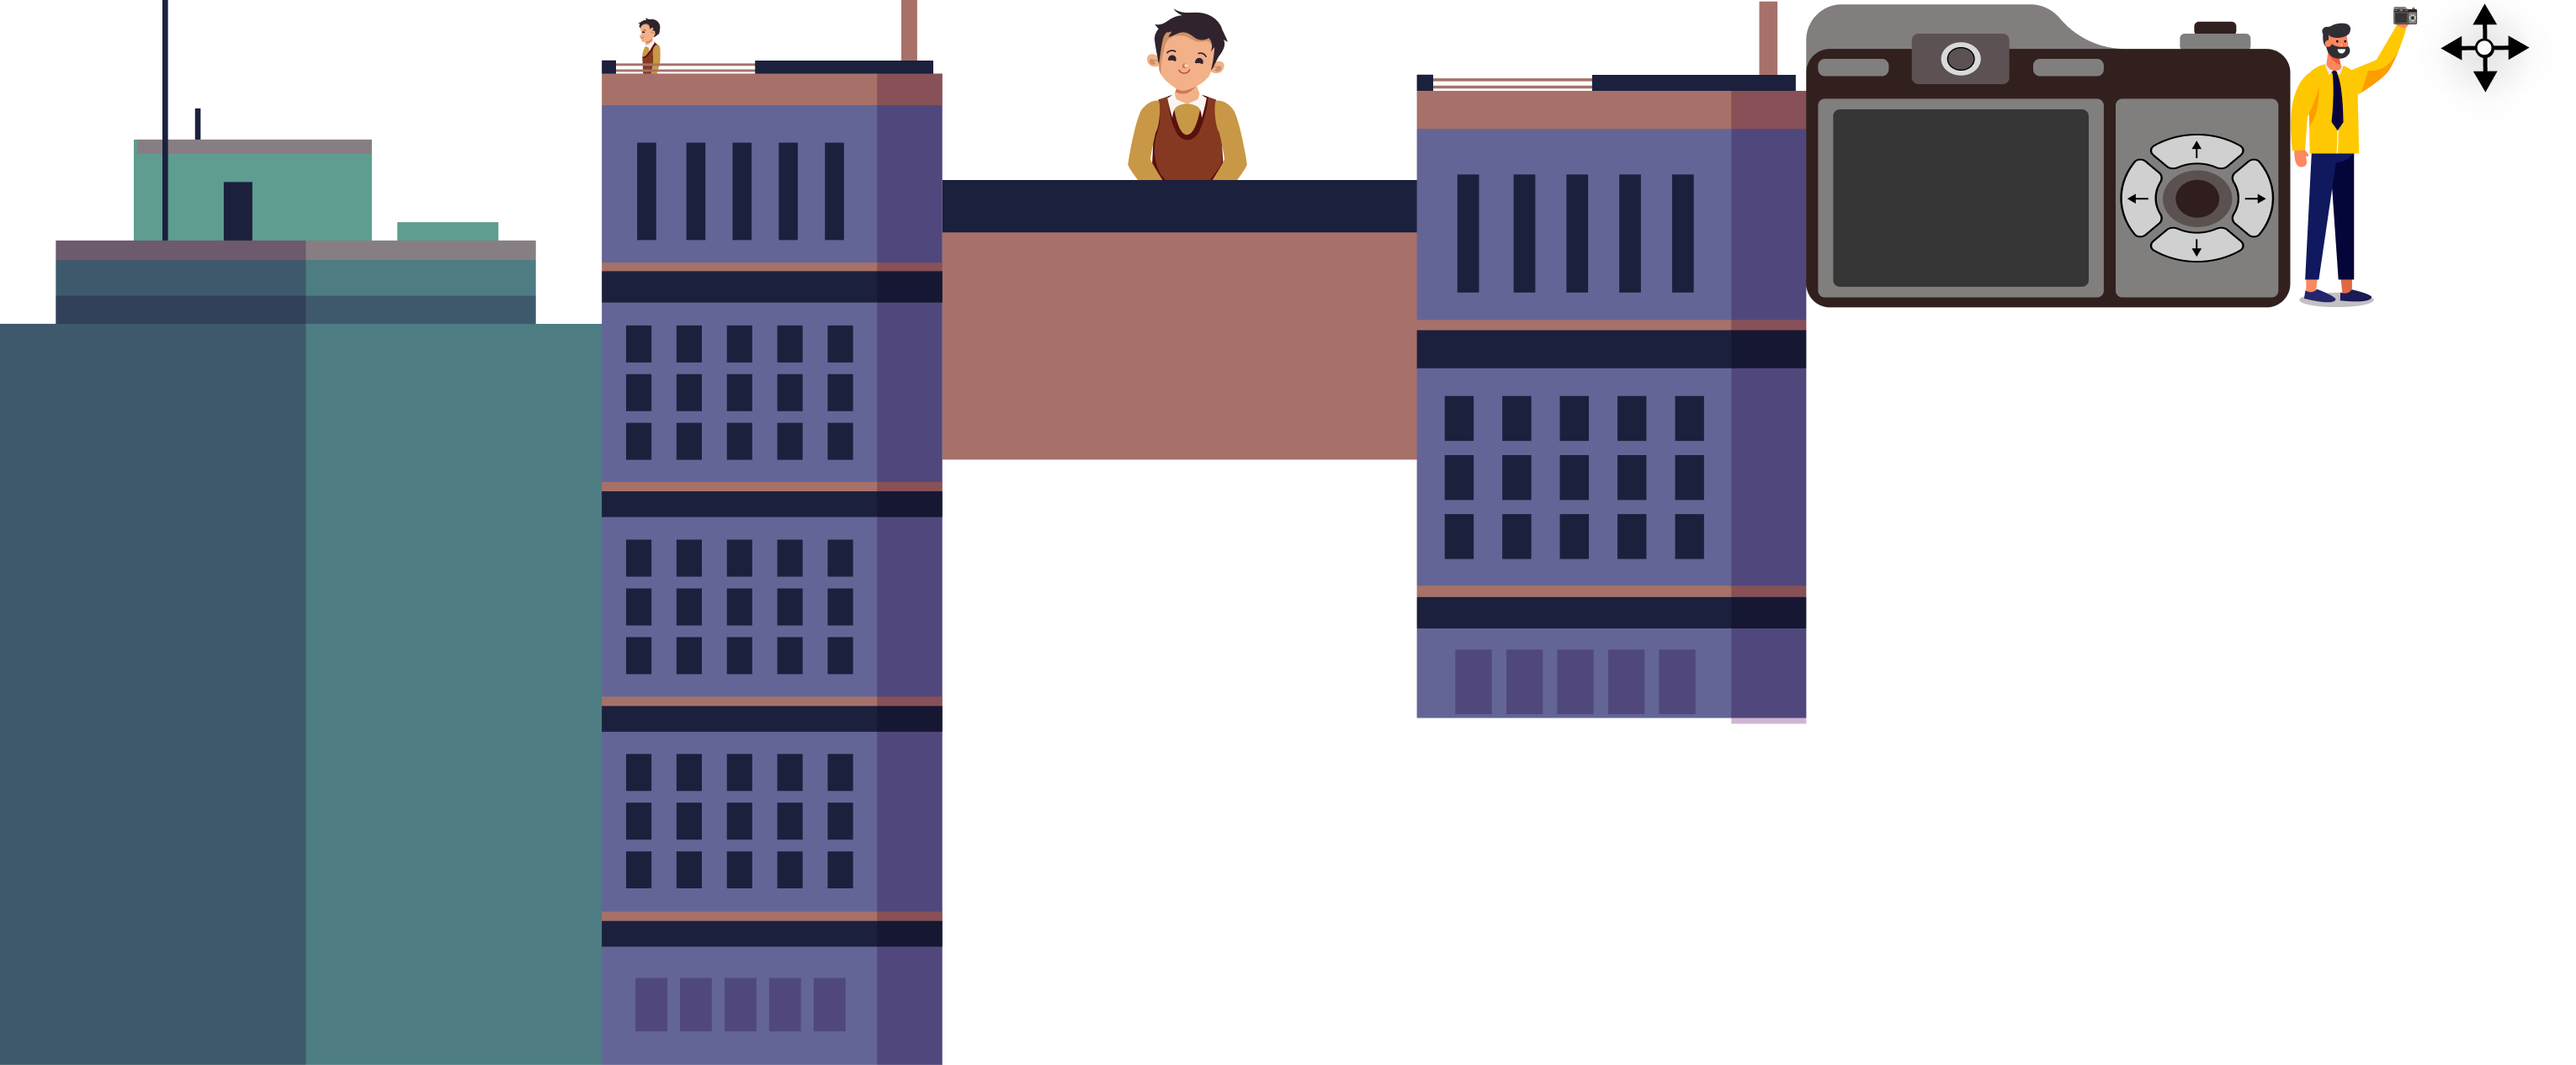
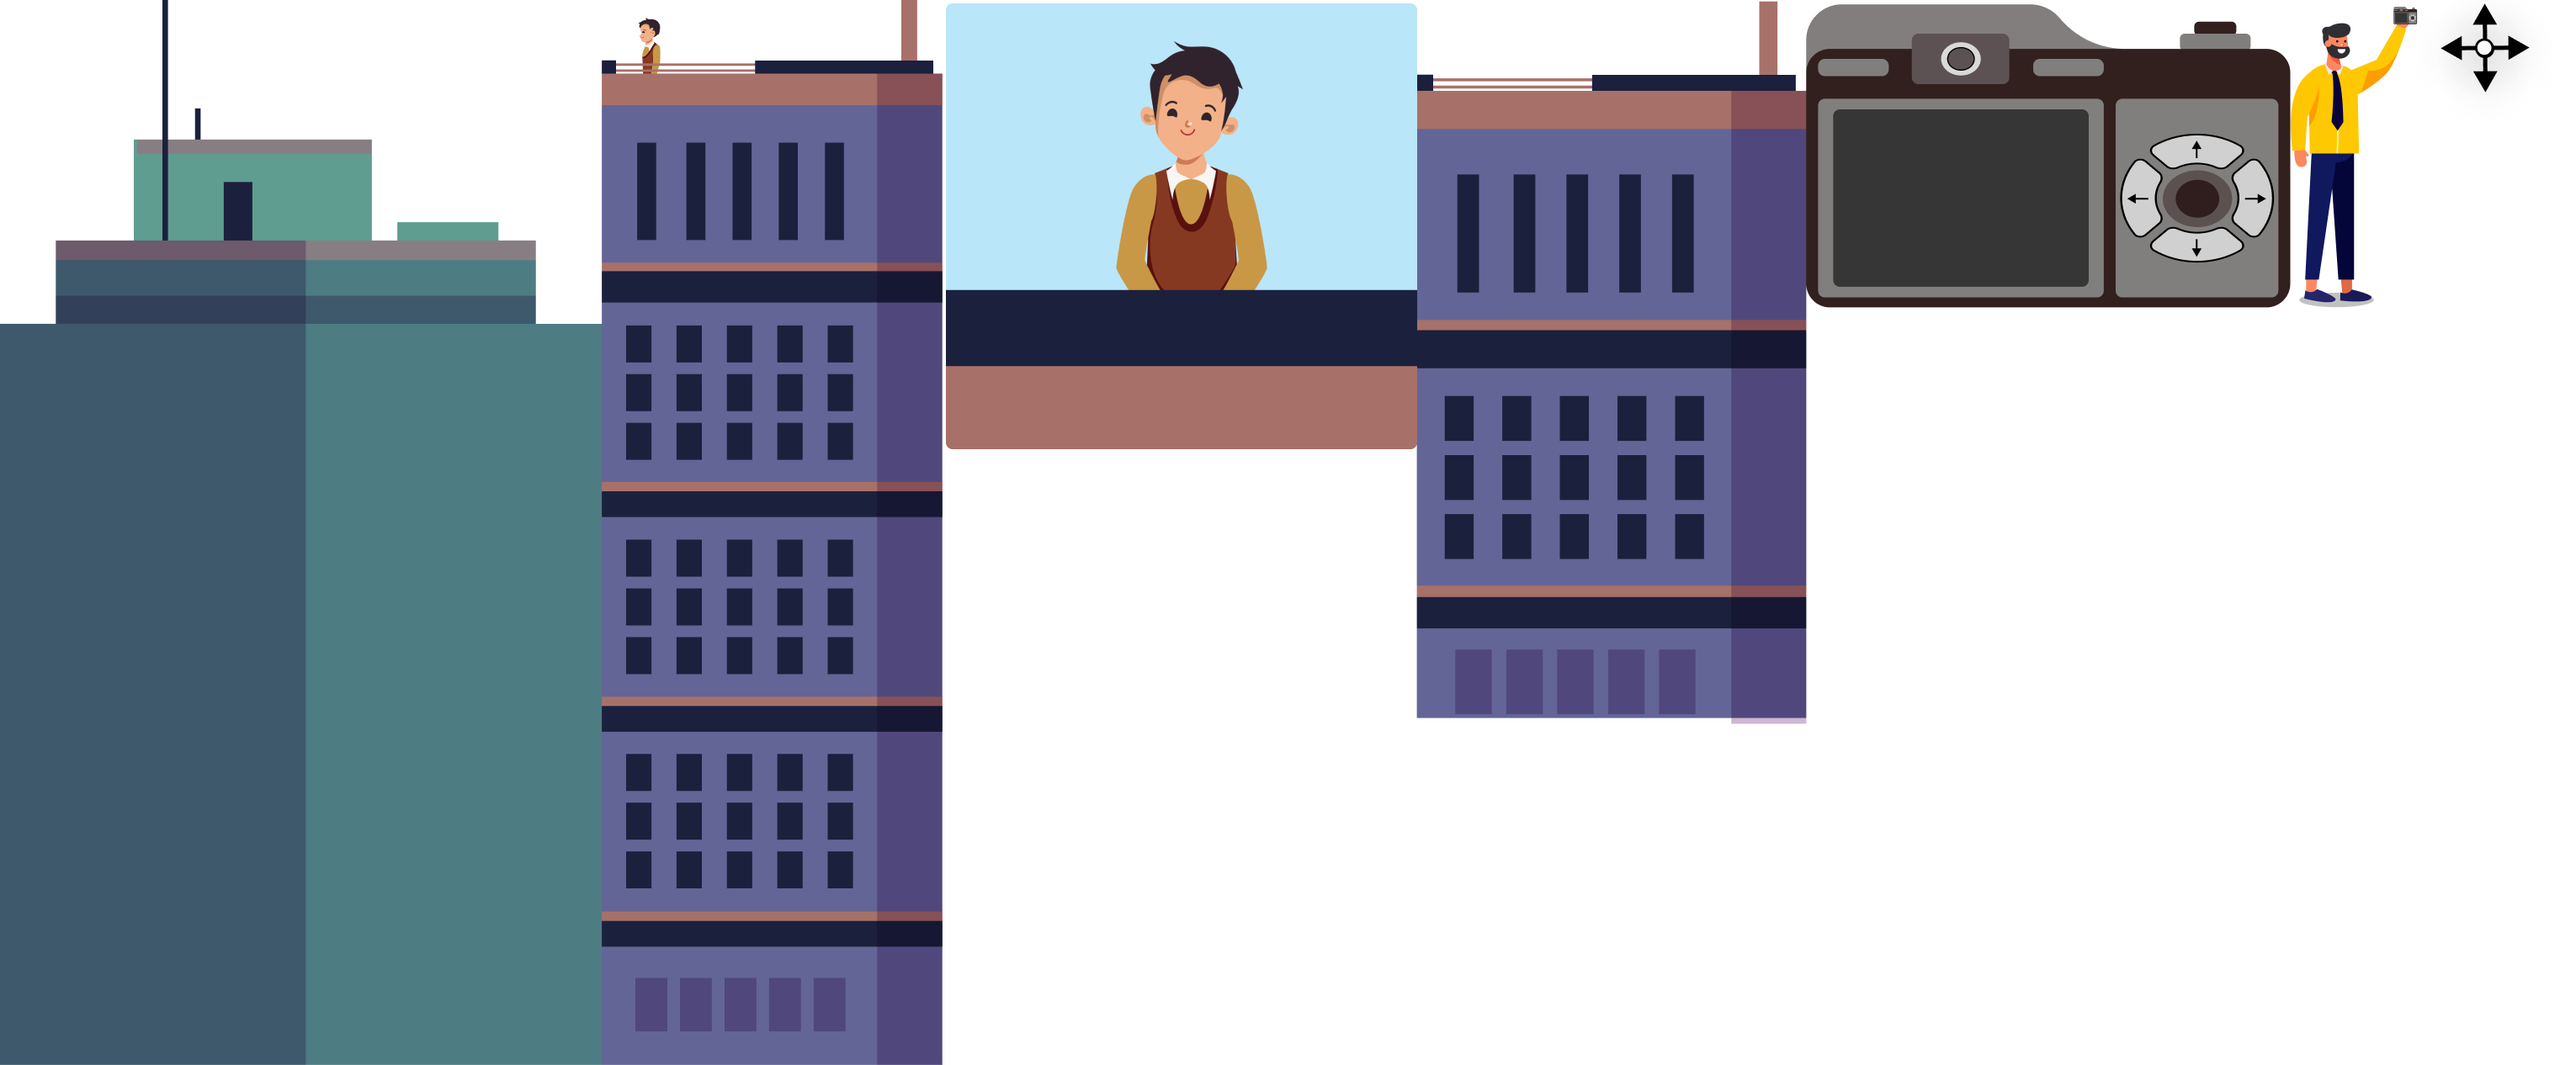
works but buggly

Changed region(s): [[0.3414, 0.0, 0.5586, 0.3697], [0.3724, 0.4005, 0.5586, 0.4313]]

diff --git a/src/tirgno/movement.tsx b/src/tirgno/movement.tsx
@@ -1,9 +1,10 @@
 import Building from "./building";
 import canvas_module from "./canvas_module";
+import CameraAngleIndicator from "./pointer";
 
 export default class Movement {
         clickedObject: Building | null = null;
-        pointer = { x: 0, y: 0, width: 0, height: 0, x1: 0, y1: 0, clicked: false, angle: 0 }; 
+        pointer:CameraAngleIndicator | null =  null; 
         cameramanhand = { x: 0, y: 0, width: 0, height: 0 };
         cameraBuilding: Building;
         constructor(cameraBuilding: Building) {
@@ -45,101 +46,54 @@ export default class Movement {
 
         }
 
-        moveClickedPointer(x2:number,y2:number,canvas_module:canvas_module,building:Building) {
+        moveClickedPointer(x2:number,y2:number,canvas_module:canvas_module) {
                 if (!this.pointer || (this.pointer && !this.pointer.clicked)) return;
-                console.log(this.pointer,'1');
+                const { x} = this.cameramanhand;
+                const b = this.pointer.building;
+                const base = Math.abs(b.x - x);
+                let p= Math.tan(this.pointer.angle) * base;
+                
+                if(y2>this.pointer.y1)p-=1
+                else p += 1
                 this.pointer.y1 = y2;
-                console.log(this.pointer,'1');
-                const { x1, x, y, y1 } = this.pointer;
-                const b = Math.abs(x1 - x), p = Math.abs(y1 - y);
-                const angle = Math.atan(b / p);
-                this.pointer.angle = angle;
-                this.DrawPointer(canvas_module, angle, building);                
+                console.log(p);
+                const angle = Math.atan(p / base);
+                this.pointer.setAngle(angle);
+                this.pointer.DrawPointer(canvas_module, angle);                
         }
 
         onClick(
-                x: number,
-                y: number,
+                x1: number,
+                y1: number,
                 canvas_module: canvas_module,
                 BuildingList: Building[]
         ) {
-                const a = this.cameramanhand;
+                const {x,y,width} = this.cameramanhand;
                 if (
-                        x < a.x + a.width &&
-                        x >= a.x + a.width - 15 &&
-                        y >= a.y &&
-                        y < a.y + 15 &&
+                        x1 < x + width &&
+                        x1 >= x + width - 15 &&
+                        y1 >= y &&
+                        y1 < y + 15 &&
                         BuildingList.length
                 ) {
                 const b=  BuildingList[0]
 
-                const p= Math.abs(Math.floor(b.y - a.y));
-                const base = Math.abs(Math.floor(b.x - a.x));
-                        const angle = Math.atan(p / base);
-                        this.setPointer(angle);
-                        this.DrawPointer(canvas_module, angle, b);
-                        const cross = document.getElementById("cross");
-                        const clickme = document.getElementById("clickme");
-                        if (cross && clickme) {
-                                cross.style.display = "block";
-                                clickme.style.display = "block";
-                        }
+                const p= Math.abs(b.y - y);
+                const base = Math.abs(b.x - x);
+                const angle = Math.atan(p / base);
+                this.setPointer(angle,b);
+                this.pointer?.DrawPointer(canvas_module, angle);                
+                        
                 }
         }
         
-        DrawCamera(canvas_module: canvas_module) {
-                const x= (canvas_module.canvas.width/2)-200
-                canvas_module.DrawObjectImage('camera', x, 100, 300, 200);
-        }
-
-        DrawPointer(canvas_module: canvas_module, angle: number, b: Building) {
-                const { x, y, x1, y1 } = this.pointer; 
-                if (!angle) angle = this.pointer.angle;
-                const height = this.cameramanhand.height/3;
-                canvas_module.DrawLine(x, y + height, x1, y1);//triangle hypotense line
-                
-                canvas_module.DrawLine(x, y + height,x1, y+height);//triangle base line
-                canvas_module.DrawObjectImage('pointer', x1 -25, y1-23, 50, 50);
-                
-                canvas_module.DrawText(
-                        x + 35,
-                        y + height - 6,
-                        Math.floor(angle * (180 / Math.PI)).toString()
-                );
-                canvas_module.DrawArc(
-                        x,
-                        y + height,
-                        35,
-                        2 * Math.PI - angle,
-                        2 * Math.PI
-                );
-                
-                this.DrawDistanceLine(canvas_module, b);
-                this.DrawCamera(canvas_module);
-                
-        }
         
-        setPointer(angle:number) {
+        setPointer(angle:number,building:Building) {
                 const {x,y} = this.cameramanhand;
                 const perpendecular = Math.tan(angle) * 110;
-                this.pointer = { x: x  , y: y , width: 50, height: 50 ,y1:y - perpendecular+36,x1:x+100,clicked:false,angle};
+                this.pointer = new CameraAngleIndicator(this.cameramanhand,angle,50,50, x + 100, y - perpendecular + 36,building);
         }
         
-        DrawDistanceLine(canvas_module: canvas_module, b: Building) {
-                const a2 = this.cameramanhand;
-                const perpendecular = Math.abs(Math.floor(b.y - a2.y));
-                const base = Math.abs(Math.floor(b.x - a2.x));
-                let x = b.x - 20, y = a2.y + 50, x1 = b.x - 20, y1 = b.y + 50;
-                
-                canvas_module.DrawLine(x,y,x1,y1, "#5708FF", 4, [10, 10]);//perpendecular
-                canvas_module.DrawText(x - 70, perpendecular / 2 + y1, perpendecular.toString() +" cm", "#5708FF")
-                
-                x = a2.x + 30; y = a2.y + a2.height + 40; x1 = b.x - 10; y1 = a2.y  + a2.height + 40;
-                canvas_module.DrawLine(x, y, x1, y1,"#FAFF08",4,[10,10]);//base
-                canvas_module.DrawText(x+base/2-20,y1+20,base.toString() + " cm","#FAFF08")
-
-        }
-
         collisionCheck(x: number, y: number, building: Building) {
                 return (
                         x >= building.x &&

diff --git a/src/tirgno/pointer.tsx b/src/tirgno/pointer.tsx
@@ -1,11 +1,101 @@
-export default class Pointer{
-        x: number; y: number;
-        angle: number;
-        constructor(x:number,y:number,angle:number) {
-                this.x = x;
-                this.y = y;
+import Building from "./building";
+import canvas_module from "./canvas_module";
+export default class CameraAngleIndicator{
+        width: number; height: number; x1: number; y1: number; clicked = false; angle = 0; 
+        cameramanhand = { x: 0, y: 0, width: 0, height: 0 };
+        building: Building;
+        camera = { x: 0, y: 100, width: 300, height: 200 };
+        constructor(cameramanhand: { x: number; y: number; width: number; height: number },angle:number,width:number,height:number,x1:number,y1:number,building:Building) { 
+        
+                this.width = width;
+                this.height = height;
+                this.x1 = x1;
+                this.y1 = y1;
+                this.angle = angle;
+                this.building = building;
+                this.cameramanhand = cameramanhand;
+        }
+        
+        setAngle(angle: number) {
                 this.angle = angle;
         }
+        
+        Capture(canvas_module: canvas_module) {
+                const { x1, y1 } = this;
+                const { x, y, } = this.cameramanhand;
+                const x2 = this.building.x;
+                const m=(y1-y)/(x1-x);
+              const  y2=m*(x2-x1)+y1-5;
+                
+                if (this.building.y <= y2+50 && this.building.y + 80>y2) canvas_module.DrawObjectImage('captureperson', this.camera.x + 14, this.camera.y + 70, 161, 118);
+                else if(this.building.y > y2+50)canvas_module.DrawObjectImage('sky', this.camera.x + 14, this.camera.y + 70, 161, 118,x,y);
+                else  canvas_module.DrawObjectImage('capturebuilding', this.camera.x + 14, this.camera.y + 70, 161, 118);
+        }
+        
+        
+        
+        
+        
+         DrawCamera(canvas_module: canvas_module) {
+                 const x = (canvas_module.canvas.width / 2) - 200
+                 this.camera.x = x;
+                canvas_module.DrawObjectImage('camera', x, 100, 300, 200);
+        }
+
+        DrawPointer(canvas_module: canvas_module, angle: number) {
+                const { x1, y1 } = this; 
+                const {x,y,height} = this.cameramanhand;
+                if (!angle) angle = this.angle;
+                const h = height/3;
+                canvas_module.DrawLine(x, y + h, x1, y1);//triangle hypotense line
+                
+                canvas_module.DrawLine(x, y + h,x1, y+h);//triangle base line
+                canvas_module.DrawObjectImage('pointer', x1 -25, y1-23, 50, 50);
+                
+                canvas_module.DrawText(
+                        x + 35,
+                        y + h - 6,
+                        Math.floor(angle * (180 / Math.PI)).toString()
+                );
+                canvas_module.DrawArc(
+                        x,
+                        y + h,
+                        35,
+                         -angle ,
+                        0
+                );
+                
+                this.DrawDistanceLine(canvas_module);
+                this.DrawCamera(canvas_module);
+                this.DisplayBtns();
+                
+        }
+       
+        DisplayBtns() {
+        const cross = document.getElementById("cross");
+                        const clickme = document.getElementById("clickme");
+                        if (cross && clickme) {
+                                cross.style.display = "block";
+                                clickme.style.display = "block";
+                        }
+        }
+        
+        DrawDistanceLine(canvas_module: canvas_module) {
+                const b = this.building;
+                const a2 = this.cameramanhand;
+                const perpendecular = Math.abs(Math.floor(b.y - a2.y));
+                const base = Math.abs(Math.floor(b.x - a2.x));
+                let x = b.x - 20, y = a2.y + 50, x1 = b.x - 20, y1 = b.y + 50;
+                
+                canvas_module.DrawLine(x,y,x1,y1, "#5708FF", 4, [10, 10]);//perpendecular
+                canvas_module.DrawText(x - 70, perpendecular / 2 + y1, perpendecular.toString() +" cm", "#5708FF")
+                
+                x = a2.x + 30; y = a2.y + a2.height + 40; x1 = b.x - 10; y1 = a2.y  + a2.height + 40;
+                canvas_module.DrawLine(x, y, x1, y1,"#FAFF08",4,[10,10]);//base
+                canvas_module.DrawText(x+base/2-20,y1+20,base.toString() + " cm","#FAFF08")
+
+        }
+
         
         
 }

diff --git a/src/tirgno/index.tsx b/src/tirgno/index.tsx
@@ -13,14 +13,16 @@ export default class TrignoHeightAndDistance{
         constructor(canvas: HTMLCanvasElement, context: CanvasRenderingContext2D) {
                 this.canvas_module = new canvas_module(canvas, context);
                 this.canvas = canvas;
-                 this.canvas_module.DrawImg(background, 0, 0, this.canvas.width, this.canvas.height);
+                this.canvas_module.DrawImg(background, 0, 0, this.canvas.width, this.canvas.height);
                 this.cameraBuilding = new Building(this.canvas.width / 2 - 200, this.canvas.height-400,"greenbuilding" , this.canvas_module)
         this.Movement = new Movement(this.cameraBuilding);
                 
         }
         
         createBuilding() {
-             this.BuildingList.push(new Building(this.canvas.width - 400, 300, 'purplebuilding1', this.canvas_module,300))
+             if(this.BuildingList.length > 2)return
+                else if(this.BuildingList.length === 0)this.BuildingList.push(new Building(this.canvas.width - 400, 300, 'purplebuilding1', this.canvas_module, 300))
+                else if(this.BuildingList.length === 1)this.BuildingList.push(new Building( 400, 300, 'purplebuilding1', this.canvas_module, 300))
         }
         
         redraw() {
@@ -45,11 +47,11 @@ export default class TrignoHeightAndDistance{
                                 
                 }          
                 this.redraw();
-                this.Movement.pointer = { x: 0, y:0, width:0, height: 0,x1:0,y1:0 ,clicked:false,angle:0} ;
+                this.Movement.pointer = null;
         }
         
         clickMe() {
-        
+        this.Movement.pointer?.Capture(this.canvas_module)
         }
         
         
@@ -61,9 +63,9 @@ export default class TrignoHeightAndDistance{
                 if (str === 'arrow') {
                         this.Movement.moveClickedBuilding(x, y);
                         this.redraw();
-                } else if (str === 'pointer'&&this.Movement.pointer.clicked) {
+                } else if (str === 'pointer'&&this.Movement.pointer&&this.Movement.pointer.clicked) {
                         this.redraw();
-                        this.Movement.moveClickedPointer(x, y, this.canvas_module, this.BuildingList[0]);
+                        this.Movement.moveClickedPointer(x, y, this.canvas_module);
                 }
         }
         
@@ -80,11 +82,12 @@ export default class TrignoHeightAndDistance{
         }
         
         MouseUp() {
-                if(this.Movement.pointer.clicked)this.Movement.DrawPointer(this.canvas_module, 0, this.BuildingList[0]);
-                console.log(this.Movement.pointer.angle);
-                
-                this.Movement.clickedObject = null;
+                if (this.Movement.pointer && this.Movement.pointer.clicked) {
+                        this.Movement.pointer.DrawPointer(this.canvas_module, 0);
+                        console.log(this.Movement.pointer?.angle);
                 this.Movement.pointer.clicked = false; 
+                }
+                this.Movement.clickedObject = null;
                 
         }
         

diff --git a/src/tirgno/canvas_module.tsx b/src/tirgno/canvas_module.tsx
@@ -1,4 +1,5 @@
 import Objects from "../assests/allobjects.png"
+import background from "../assests/background.png"
 
 
 export default class canvas_module{
@@ -20,10 +21,10 @@ export default class canvas_module{
         
        DrawImg(imgsrc: string, x: number, y: number, width: number, height: number) {
                 const img = new Image();
-                img.src = imgsrc;
+               img.src = imgsrc;
+               this.context.drawImage(img, x, y, width, height);
                img.onload = () => {
                        this.context.drawImage(img, x, y, width, height);
-                       console.log(img);
                 }
                 
                 img.onerror = (e)=>console.log("error: ",e);
@@ -33,14 +34,14 @@ export default class canvas_module{
         DrawClipImg(imgsrc: string,  sx:number, sy:number, sWidth:number, sHeight:number,x: number, y: number, width: number, height: number) {
         const img = new Image();
                 img.src = imgsrc;
+               this.context.drawImage(img,sx,sy,sWidth,sHeight, x, y, width, height);
                img.onload = () => {
                        this.context.drawImage(img,sx,sy,sWidth,sHeight, x, y, width, height);
-                       console.log(img);
                 }
                 img.onerror = (e)=>console.log("error: ",e);       
         }
         
-        DrawObjectImage(img:string,x: number, y: number, width: number, height: number) {
+        DrawObjectImage(img:string,x: number, y: number, width: number, height: number,sx =0,sy =0) {
         switch (img) {
                 case 'greenbuilding':
                         this.DrawClipImg(Objects, 0, 0, 710, 1000, x, y, width, height);
@@ -58,11 +59,16 @@ export default class canvas_module{
                         this.DrawClipImg(Objects, 2798, 0, 78, 300, x, y, width, height);
                         break;
                 case "captureperson":
+                        this.DrawClipImg(Objects, 1120, 0, 550, 550, x, y, width, height);
                         break;
                 case "capturebuilding":
+                        this.DrawClipImg(Objects, 715, 300, 400, 600, x, y, width, height);
                         break;
                 case 'camera':
                         this.DrawClipImg(Objects, 2150, 0, 570, 370, x, y, width, height);
+                        break;
+                case 'sky':
+                        this.DrawClipImg(background, sx, sy, 710, 1000, x, y, width, height);
                         break;
                 default:
                         break;
@@ -96,8 +102,8 @@ export default class canvas_module{
         }
         
 
-       sleep() {
-    return new Promise(resolve => setTimeout(resolve, 100));
+       sleep(ms:number=100) {
+    return new Promise(resolve => setTimeout(resolve, ms));
 }
         
 }

diff --git a/src/canvas.tsx b/src/canvas.tsx
@@ -44,7 +44,7 @@ export default function Canvas(){
                         setClickMe(false);
                 }
                 
-        }, [buildingBtn, clickme, cross, game, reset, setClickMe, setCross, setReset, setbuildingBtn])
+        }, [buildingBtn, clickme, cross, game, reset])
         
         
         
